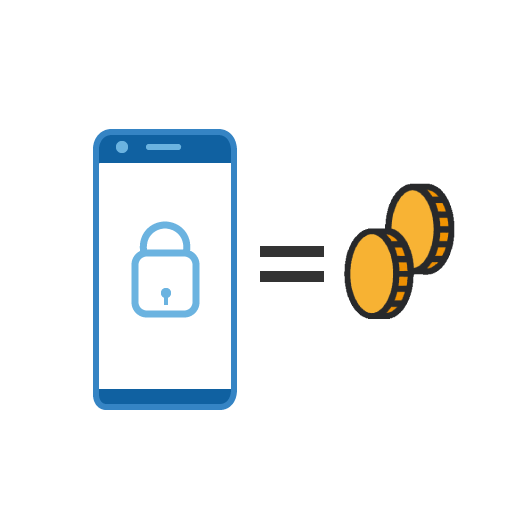
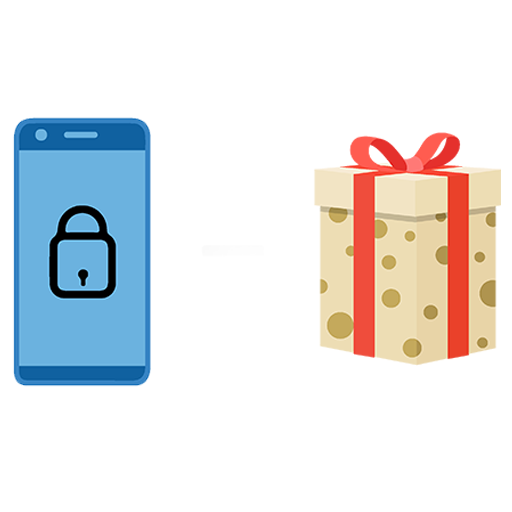
added date to timer

diff --git a/lib/src/screens/drawer.dart b/lib/src/screens/drawer.dart
@@ -152,7 +152,7 @@ class _DrawerPageState extends State<DrawerPage> {
               ),
             ),
             trailing: Icon(
-              Icons.star,
+              Ionicons.logo_facebook,
               color: Colors.white,
             ),
             onTap: () async {
@@ -204,7 +204,7 @@ class _DrawerPageState extends State<DrawerPage> {
               ),
             ),
             trailing: Icon(
-              Icons.mail,
+              Icons.question_answer,
               color: Colors.white,
             ),
             onTap: () async {

diff --git a/lib/src/atp/screens/intro3.dart b/lib/src/atp/screens/intro3.dart
@@ -30,8 +30,8 @@ class Intro3 {
   factory Intro3.initial() {
     return Intro3(
       backgroundColor: Colors.black87,
-      title: "City Scoreboard",
-      description: "Compete on city level",
+      title: "Scoreboard",
+      description: "Compete at national/city level to enter ‘Winners’ list",
       pathImage: "assets/images/intro/3.png",
       titleFontFamily: Fonts.titilliumWebRegular,
       titleFontSize: 28.0,

diff --git a/lib/src/atp/screens/intro2.dart b/lib/src/atp/screens/intro2.dart
@@ -31,7 +31,7 @@ class Intro2 {
     return Intro2(
       backgroundColor: Colors.black87,
       title: "Earn Points",
-      description: "Earn points for not using the phone",
+      description: "Use points to get freebies/gifts",
       pathImage: "assets/images/intro/2.png",
       titleFontFamily: Fonts.titilliumWebRegular,
       titleFontSize: 28.0,
